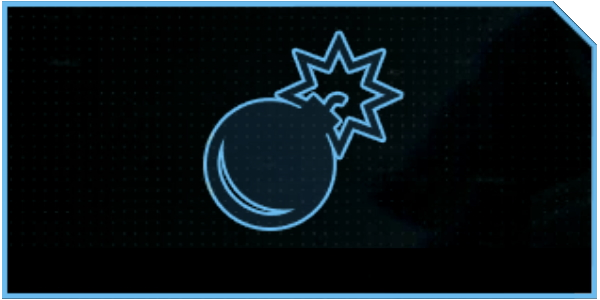
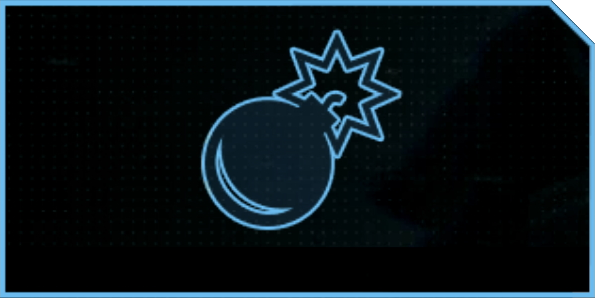
Better match tiles. better profile menu

Changed region(s): [[0.0, 0.0, 1.0, 1.0], [0.363, 0.0906, 0.6958, 0.7852]]

diff --git a/src/lib/db.ts b/src/lib/db.ts
@@ -1,5 +1,5 @@
 import { addDoc, collection, doc, getDocs, query, where, onSnapshot, type Firestore, type WhereFilterOp, QueryFieldFilterConstraint, FieldPath, documentId, arrayUnion, updateDoc } from "firebase/firestore";
-import type { Game, GameMode, GameMap } from "./library";
+import { type Game, type GameMode, type GameMap, library } from "./library";
 import type { AuthService } from "./services/authService";
 
 export class Db {
@@ -28,11 +28,15 @@ export class Db {
         return docRef;
     }
 
-    async createMatch(eventId: string, match: { gameId: string; modeId: string; mapId: string }) {
+    async createMatch(eventId: string, match: { game: Game, mode: GameMode, map: GameMap }) {
         await updateDoc(
             doc(this.db, 'events', eventId),
             {
-                matches: arrayUnion(match)
+                matches: arrayUnion({
+                    gameId: match.game.id,
+                    modeId: match.mode.id,
+                    mapId: match.map.id
+                } as GameMatchRaw)
             }
         );
     }
@@ -57,7 +61,17 @@ export class Db {
     }
 
     public observeEvents(callback: (data: GamingEvent[]) => void) {
-        return this.observe('events', where('ownerId', '==', this.authService.user?.uid), callback);
+        return this.observe<GamingEvent>('events', where('ownerId', '==', this.authService.user?.uid), (events) => {
+            //hydrate match info
+            for (const event of events ?? []) {
+                event.matches = ((event.matches ?? []) as unknown as GameMatchRaw[]).map((match) => ({
+                    game: library.getGame(match.gameId),
+                    mode: library.getMode(match.modeId),
+                    map: library.getMap(match.mapId)
+                }));
+            }
+            callback(events);
+        });
     }
 }
 export const db = new Db();
@@ -79,6 +93,12 @@ export interface GamingEvent {
 }
 
 export interface GameMatch {
+    game: Game;
+    mode: GameMode;
+    map: GameMap;
+}
+
+interface GameMatchRaw {
     gameId: string;
     modeId: string;
     mapId: string;

diff --git a/src/lib/components/layout/Navbar.svelte b/src/lib/components/layout/Navbar.svelte
@@ -2,7 +2,7 @@
 	import { authService } from '$lib/services/authService';
 	import type { User } from 'firebase/auth';
 	import FaUserCircle from 'svelte-icons/fa/FaUserCircle.svelte';
-	let isProfileMenuVisible = false;
+	let isProfileMenuVisible = true;
 
 	function toggleProfileMenu() {
 		isProfileMenuVisible = !isProfileMenuVisible;
@@ -23,9 +23,6 @@
 	<div class="navbar">
 		<a class="logo" href="/">Halo Lan Designer</a>
 		<div class="profile-button" on:click={toggleProfileMenu} on:keyup>
-			{#if user}
-				<span>{user.email}</span>
-			{/if}
 			<div class="icon" class:logged-in={user?.email}>
 				<FaUserCircle />
 			</div>
@@ -35,9 +32,16 @@
 {#if isProfileMenuVisible}
 	<div class="profile-menu">
 		{#if !!user}
-			<button on:click={signOut} on:keyup>Sign Out</button>
+			<div class="navbar-item">
+				<span class="email">{user.email}</span>
+			</div>
+			<div class="navbar-item">
+				<button on:click={signOut} on:keyup>Sign Out</button>
+			</div>
 		{:else}
-			<button on:click={signIn} on:keyup>Sign In</button>
+			<div class="navbar-item">
+				<button on:click={signIn} on:keyup>Sign In</button>
+			</div>
 		{/if}
 	</div>
 {/if}
@@ -78,6 +82,12 @@
 		padding: 10px;
 		border-radius: 3px;
 		z-index: 1000;
+		display: flex;
+		flex-direction: column;
+	}
+
+	.navbar-item {
+		padding: 10px;
 	}
 
 	.profile-button {
@@ -87,8 +97,8 @@
 		color: white;
 		cursor: pointer;
 	}
-	.profile-button span {
-		margin-right: 5px;
+	.email {
+		color: white;
 	}
 	.icon {
 		display: inline-block;

diff --git a/src/lib/components/MatchPicker.svelte b/src/lib/components/MatchPicker.svelte
@@ -1,19 +1,20 @@
 <script lang="ts">
-	import type { GameMode, GameMap } from '$lib/library';
+	import type { GameMatch } from '$lib/db';
 	import { createEventDispatcher } from 'svelte';
-	import ModeTile from './ModeTile.svelte';
+	import MatchTile from './MatchTile.svelte';
 
-	export let modes: GameMode[];
+	export let matches: GameMatch[];
+
 	/**
 	 * Should more than one map be selectable?
 	 */
-	export let multi = true;
+	export let multi = false;
 
 	const dispatch = createEventDispatcher();
 
-	let selection = new Set<GameMode>();
+	let selection = new Set<GameMatch>();
 
-	function toggleSelection(mode: GameMode) {
+	function toggleSelection(mode: GameMatch) {
 		if (!multi) {
 			selection.clear();
 		}
@@ -28,23 +29,28 @@
 	}
 </script>
 
-<div>
-	{#if modes}
-		{#each modes as mode}
+<div class="scroller">
+	{#if matches?.length > 0}
+		{#each matches as match}
 			<div
-				class="mode"
-				class:selected={selection.has(mode)}
-				on:click={() => toggleSelection(mode)}
+				class="match"
+				class:selected={selection.has(match)}
+				on:click={() => toggleSelection(match)}
 				on:keyup
 			>
-				<ModeTile {mode} />
+				<MatchTile {match} />
 			</div>
 		{/each}
 	{/if}
 </div>
 
 <style>
-	.mode {
+	.scroller {
+		white-space: nowrap;
+		overflow: auto;
+		overflow-y: hidden;
+	}
+	.match {
 		display: inline-block;
 		padding: 3px;
 		margin: 5px;

diff --git a/src/lib/library.ts b/src/lib/library.ts
@@ -1,5 +1,41 @@
-export const library = {
-    games: [
+class Library {
+
+    /**
+     * Get the game with the specified ID
+     */
+    public getGame(gameId: string): Game {
+        return this.games.find(x => x.id === gameId)!;
+    }
+
+    /**
+     * Get the map with the specified ID
+     */
+    public getMap(mapId: string): GameMap {
+        for (const game of this.games) {
+            for (const map of game.maps) {
+                if (map.id === mapId) {
+                    return map;
+                }
+            }
+        }
+        return undefined as unknown as GameMap;
+    }
+
+    /**
+     * Get the game mode with the specified ID
+     */
+    public getMode(modeId: string): GameMode {
+        for (const game of this.games) {
+            for (const mode of game.modes) {
+                if (mode.id === modeId) {
+                    return mode;
+                }
+            }
+        }
+        return undefined as unknown as GameMode;
+    }
+
+    public games = [
         {
             name: 'Halo: CE',
             id: 'H:CE',
@@ -795,6 +831,7 @@ export const library = {
             }],
         }] as Game[]
 };
+export const library = new Library();
 
 for (const game of library.games) {
     for (const map of game.maps) {

diff --git a/src/lib/components/ModeTile.svelte b/src/lib/components/ModeTile.svelte
@@ -2,10 +2,9 @@
 	import type { Game, GameMode, GameMap } from '$lib/library';
 
 	export let mode: GameMode;
-	export let selected = false;
 </script>
 
-<div class="mode" class:selected on:click on:keyup>
+<div class="mode">
 	<div class="image-container">
 		<span class="name">{mode.name}</span>
 		<img src={mode.imageUrl} alt="{mode.name} thumbnail" />
@@ -15,14 +14,10 @@
 <style>
 	.mode {
 		display: inline-block;
-		border-radius: 5px;
 		vertical-align: middle;
-		padding: 3px;
-		margin: 5px;
-		width: 200px;
+		width: 180px;
 		padding-bottom: 0px;
 		overflow: hidden;
-		cursor: pointer;
 		position: relative;
 	}
 	.name {
@@ -30,7 +25,7 @@
 		font-family: Arial, Helvetica, sans-serif;
 		color: var(--mcc-blue);
 		font-size: 0.8em;
-		bottom: 6px;
+		bottom: 4px;
 		left: 5px;
 	}
 
@@ -42,7 +37,4 @@
 		width: 100%;
 	}
 
-	.selected {
-		background-color: var(--primary);
-	}
 </style>

diff --git a/src/lib/components/MapTile.svelte b/src/lib/components/MapTile.svelte
@@ -1,12 +1,10 @@
 <script lang="ts">
-	import type { Game, GameMap } from '$lib/library';
-	import GameTile from './GameTile.svelte';
+	import type { GameMap } from '$lib/library';
 
 	export let map: GameMap;
-	export let selected = true;
 </script>
 
-<div class="map" class:selected on:click on:keyup>
+<div class="map">
 	<div class="border">
 		<div class="title-bar">
 			<div class="title">
@@ -28,11 +26,8 @@
 	.map {
 		display: inline-block;
 		vertical-align: middle;
-		margin: 5px;
-		padding: 5px;
 		width: 180px;
 		overflow: hidden;
-		cursor: pointer;
 		position: relative;
 	}
 
@@ -73,10 +68,6 @@
 		width: 100%;
 	}
 
-	.selected {
-		background-color: var(--primary);
-		border-radius: 5px;
-	}
 
 	.halopedia-link {
 		position: absolute;

diff --git a/src/lib/components/MatchTile.svelte b/src/lib/components/MatchTile.svelte
@@ -1,0 +1,28 @@
+<script lang="ts">
+	import type { GameMatch } from '$lib/db';
+	import { library, type GameMap, type GameMode } from '$lib/library';
+	import MapTile from './MapTile.svelte';
+	import ModeTile from './ModeTile.svelte';
+
+	export let match: GameMatch;
+	$: map = library.getMap(match.mapId) as GameMap;
+	$: mode = library.getMode(match.modeId) as GameMode;
+</script>
+
+<div class="container">
+	<div class="mode">
+		<ModeTile {mode} />
+	</div>
+	<div class="map">
+		<MapTile {map} />
+	</div>
+</div>
+
+<style>
+	.container {
+		display: inline-block;
+	}
+	.mode {
+		margin-bottom: -4px;
+	}
+</style>

diff --git a/src/lib/components/MapPicker.svelte b/src/lib/components/MapPicker.svelte
@@ -31,7 +31,24 @@
 <div>
 	{#if maps}
 		{#each maps as map}
-			<MapTile {map} on:click={() => toggleSelection(map)} selected={selection.has(map)} />
+			<div class="map" on:click={() => toggleSelection(map)} class:selected={selection.has(map)} on:keyup>
+				<MapTile {map} />
+			</div>
 		{/each}
 	{/if}
 </div>
+
+<style>
+	.map {
+		display: inline-block;
+		margin: 5px;
+		padding: 5px;
+		cursor: pointer;
+		position: relative;
+	}
+
+	.selected {
+		background-color: var(--primary);
+		border-radius: 5px;
+	}
+</style>

diff --git a/src/routes/events/[id]/+layout.svelte b/src/routes/events/[id]/+layout.svelte
@@ -1,4 +1,6 @@
 <script lang="ts">
+	import MatchPicker from '$lib/components/MatchPicker.svelte';
+	import MatchTile from '$lib/components/MatchTile.svelte';
 	import { db, type GamingEvent } from '$lib/db';
 
 	/** @type {import('./$types').PageData} */
@@ -22,5 +24,8 @@
 
 {#if event}
 	<a href="/events/{event?.id}"><h1>{event.name}</h1></a>
+	{#if event.matches?.length > 0}
+		<MatchPicker matches={event.matches} />
+	{/if}
 {/if}
 <slot />

diff --git a/src/routes/events/[id]/+page.svelte b/src/routes/events/[id]/+page.svelte
@@ -21,3 +21,4 @@
 </script>
 
 <a class="pure-button button-primary" href="/events/{event?.id}/add">&plus;&nbsp;Add</a>
+
